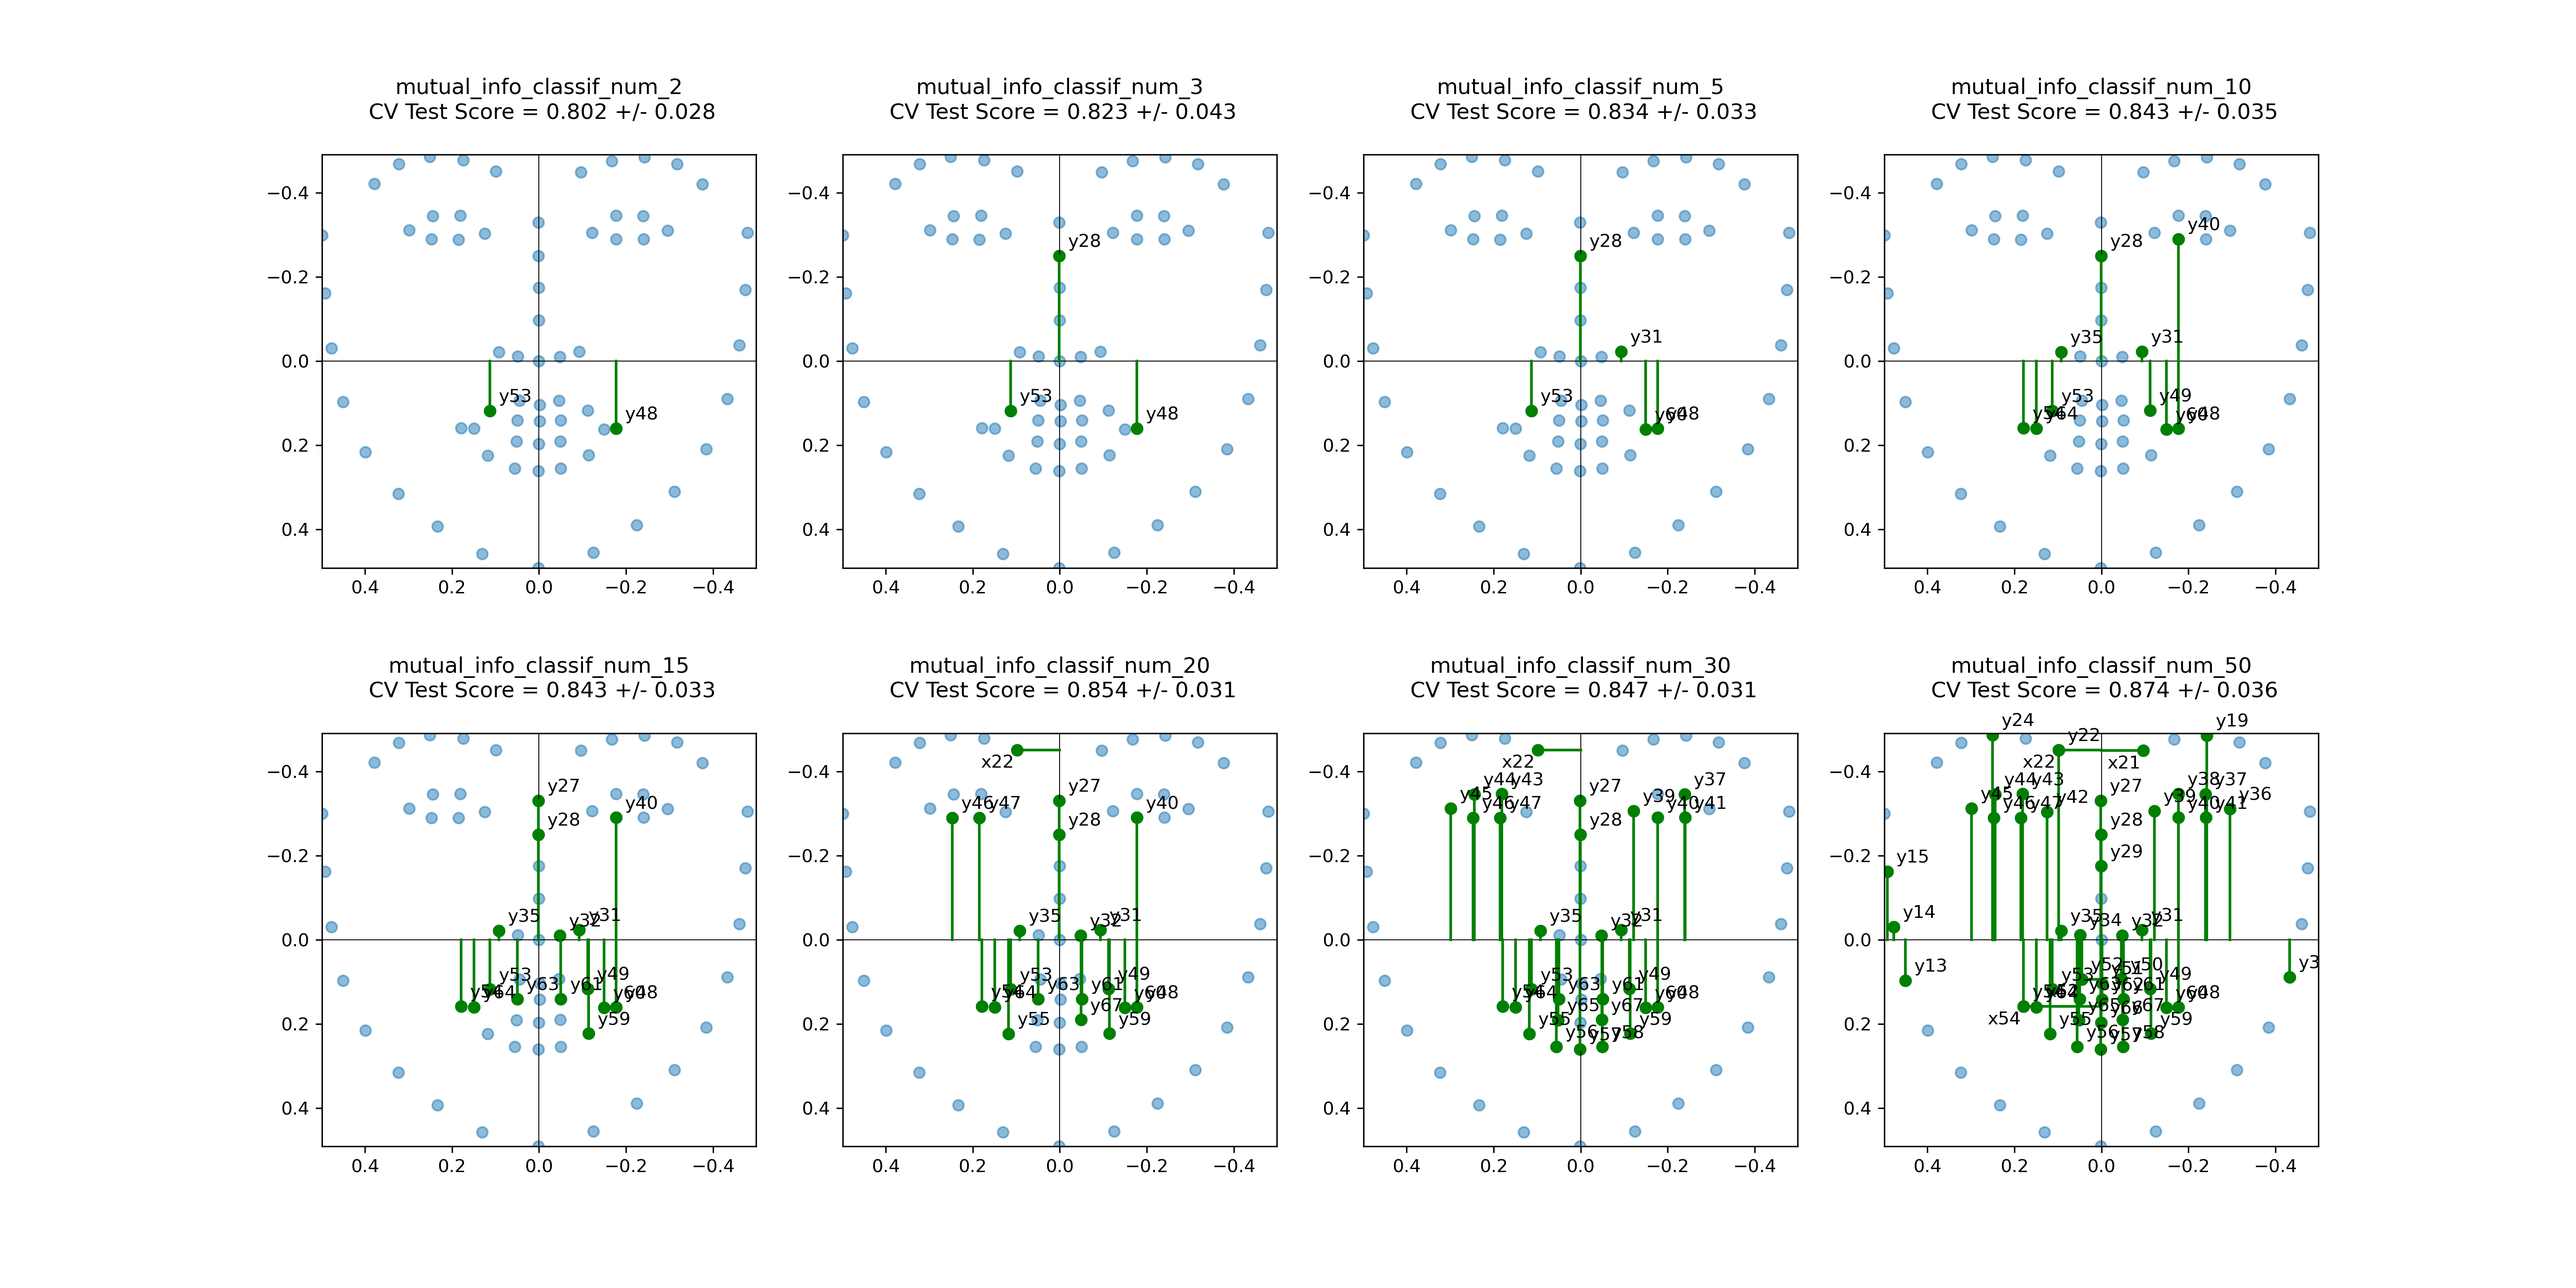
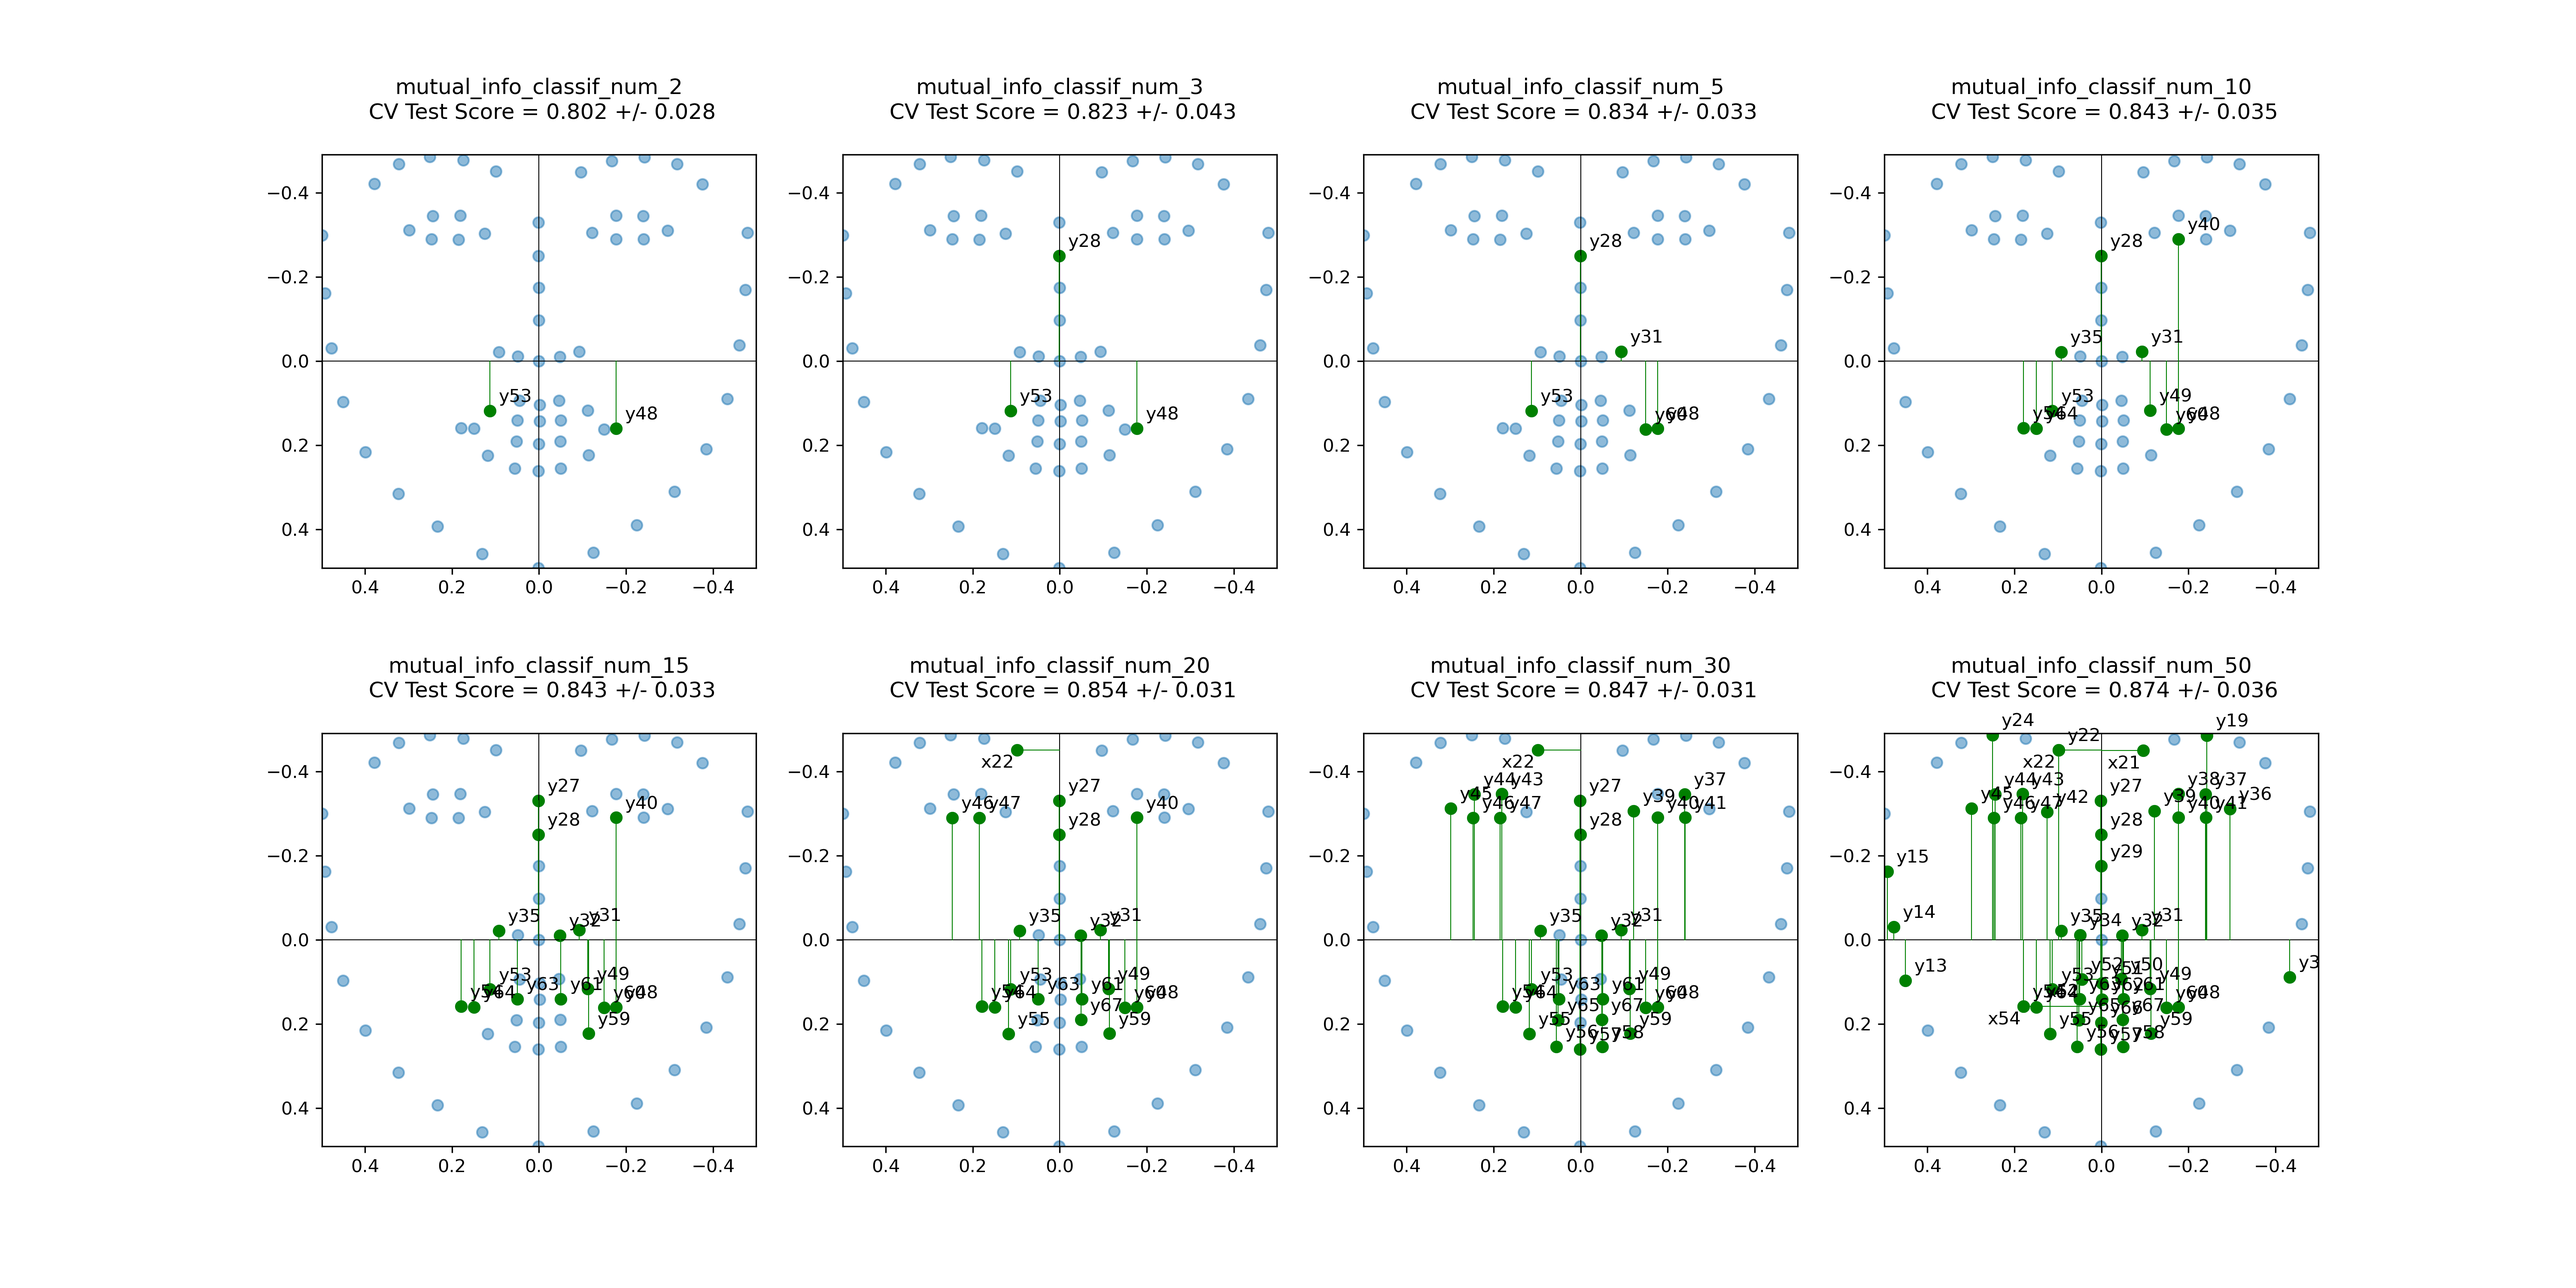
change plot format

diff --git a/src/feature_selection_plots.py b/src/feature_selection_plots.py
@@ -44,9 +44,9 @@ def landmark_plots(df, x_cols, y_cols, feature_selection_result):
                     ax.scatter(landmark_x, landmark_y, c="green")
                     ax.annotate(landmark_label, (landmark_x, landmark_y), textcoords="offset points", xytext=(-20, -10))
                     if landmark_x > 0:
-                        ax.axhline(y=landmark_y, xmin=0.5, xmax=0.5 + landmark_x / ax.get_xlim()[1] / 2, color='green')
+                        ax.axhline(y=landmark_y, xmin=0.5, xmax=0.5 + landmark_x / ax.get_xlim()[1] / 2, color="green", linewidth=0.5)
                     else:
-                        ax.axhline(y=landmark_y, xmax=0.5, xmin=0.5 + landmark_x / ax.get_xlim()[1] / 2, color='green')
+                        ax.axhline(y=landmark_y, xmax=0.5, xmin=0.5 + landmark_x / ax.get_xlim()[1] / 2, color="green", linewidth=0.5)
 
                 if feature_name in y_cols:
                     landmark_x = x_mean[y_cols.index(feature_name)]
@@ -54,9 +54,9 @@ def landmark_plots(df, x_cols, y_cols, feature_selection_result):
                     ax.scatter(landmark_x, landmark_y, c="green")
                     ax.annotate(landmark_label, (landmark_x, landmark_y), textcoords="offset points", xytext=(5, 5))
                     if landmark_y > 0:
-                        ax.axvline(x=landmark_x, ymin=0.5, ymax=(0.5 + landmark_y / ax.get_ylim()[1] / 2), color='green')
+                        ax.axvline(x=landmark_x, ymin=0.5, ymax=(0.5 + landmark_y / ax.get_ylim()[1] / 2), color="green", linewidth=0.5)
                     else:
-                        ax.axvline(x=landmark_x, ymax=0.5, ymin=(0.5 + landmark_y / ax.get_ylim()[1] / 2), color='green')
+                        ax.axvline(x=landmark_x, ymax=0.5, ymin=(0.5 + landmark_y / ax.get_ylim()[1] / 2), color="green", linewidth=0.5)
             ax.set_title("{}\n CV Test Score = {:.3f} +/- {:.3f}".format(method_df.iloc[i, 0], method_df.iloc[i, 3], method_df.iloc[i, 4]), pad=20)
         fig.subplots_adjust(hspace=0.4)
         fig.savefig("outcome/feature_selection/features_{}.png".format(method), dpi=300)
